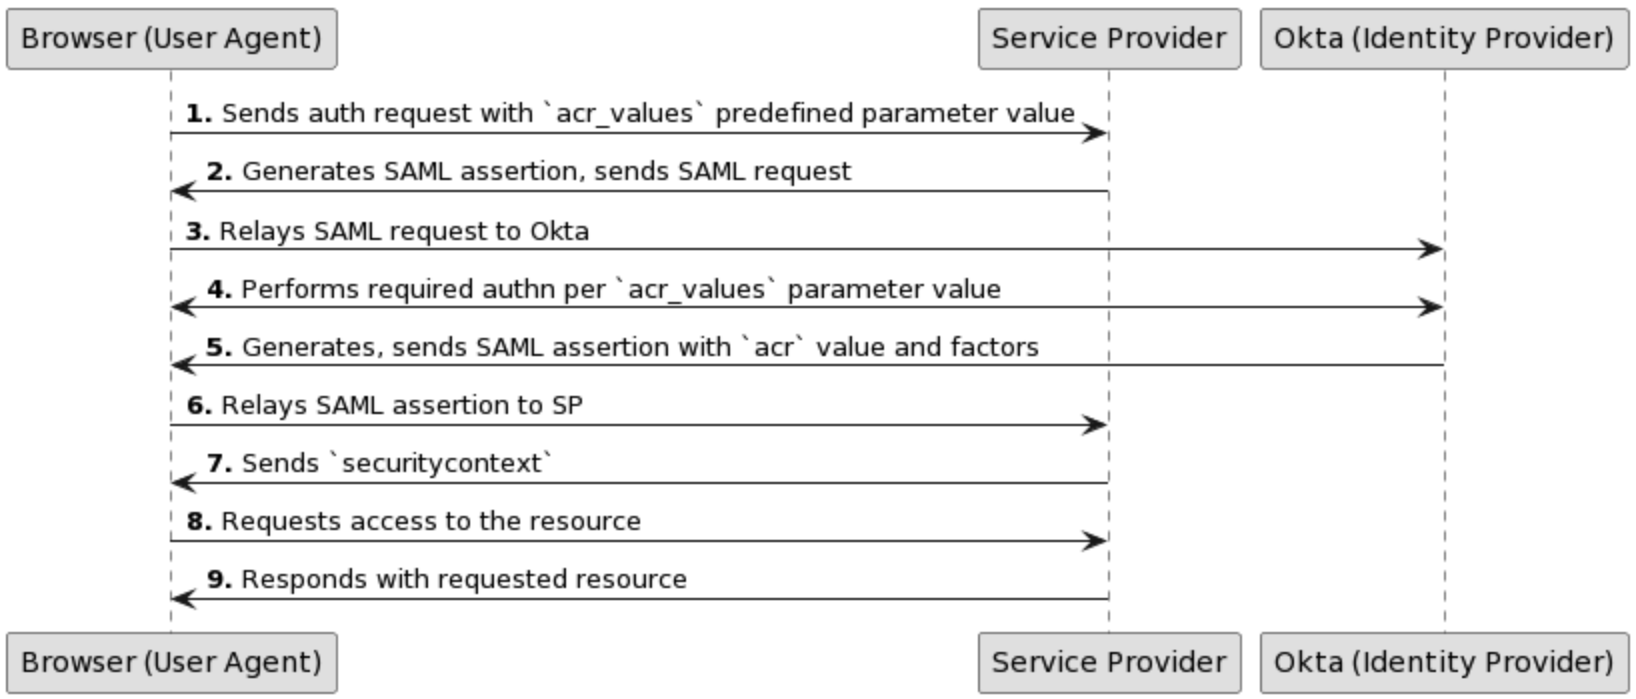
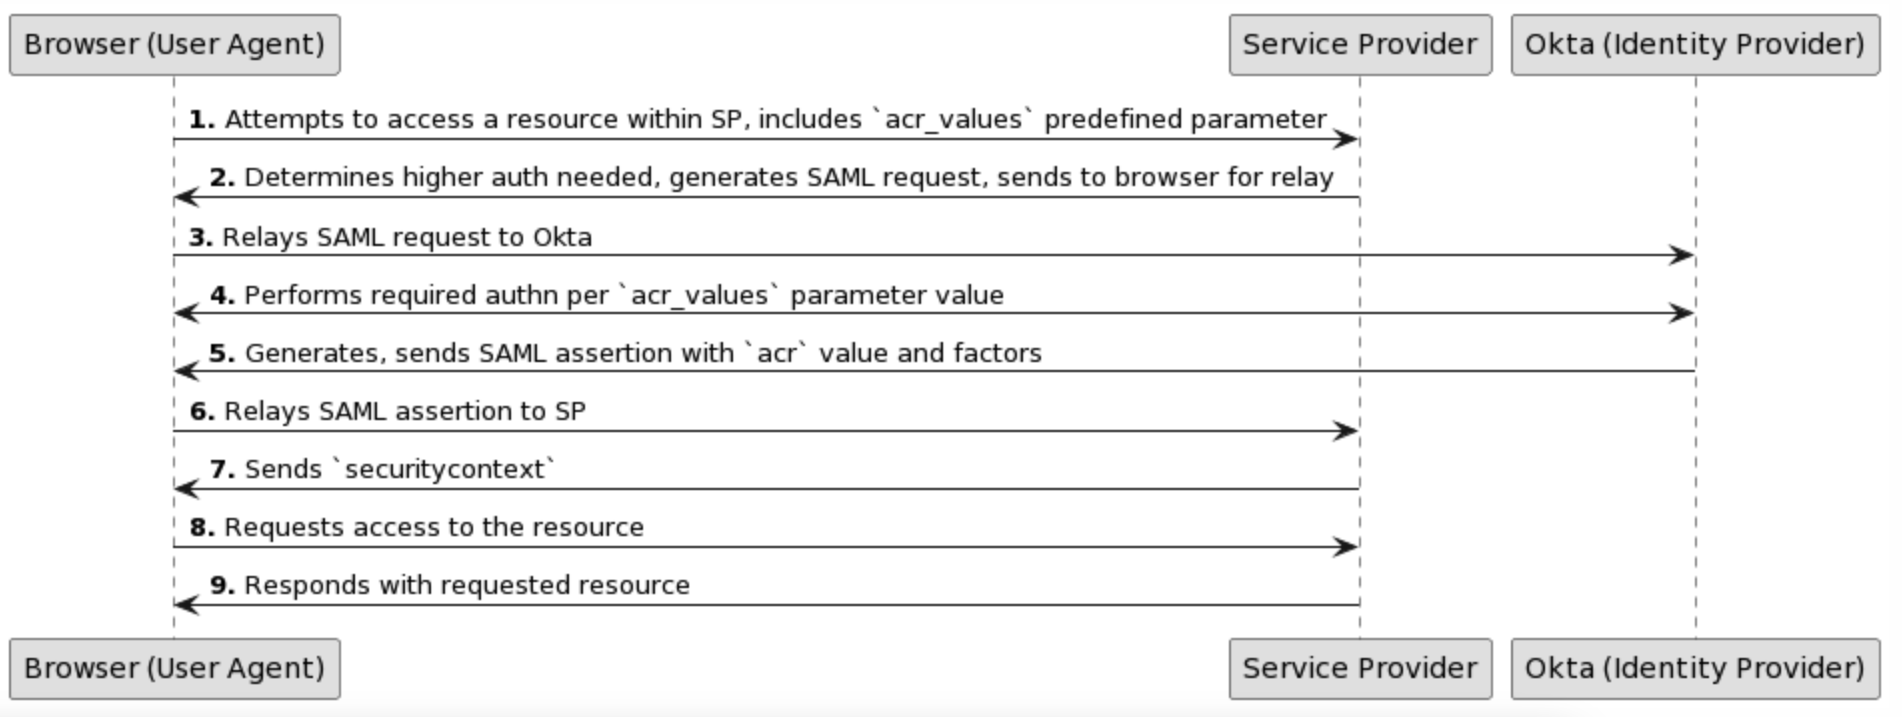
dz diagram comment

diff --git a/packages/@okta/vuepress-site/docs/guides/step-up-authentication/main/saml2/diagram.md b/packages/@okta/vuepress-site/docs/guides/step-up-authentication/main/saml2/diagram.md
@@ -1,13 +1,13 @@
 <div class="three-quarter">
 
-![Flow diagram that displays the back and forth between the Okta the Identity Provider, the user agent, and the Service Provider](/img/auth/step-up-authentication-acr-flowSAML.png)
+![Flow diagram that displays the back and forth between the Okta Identity Provider, the user agent, and the Service Provider](/img/auth/step-up-authentication-acr-flowSAML.png)
 
 </div>
 
 At a high level, this flow has the following steps:
 
-1. Per your use case, include the `acr_values` predefined parameter value in the authentication request.
-2. The SP generates the SAML assertion and sends it in a SAML request to the browser.
+1. Per your use case, include the `acr_values` predefined parameter in the authentication request.
+2. The SP determines that higher authentication is needed, generates the SAML request, and sends it to the browser.
 3. The browser relays the SAML request to Okta.
 4. Okta performs the authentication scenarios required in accordance with the predefined `acr_values` parameter value used in the SAML authentication request.
 5. Okta generates and sends the SAML assertion response to the browser. The assertion contains the `acr` value from the request passed as `AuthnContextClassRef`. The factors (Authentication Method Reference (AMR) claims) used to authenticate the user are passed as a list of `AuthnContextDecl` in the `AuthnContext`.
@@ -25,8 +25,8 @@ participant "Service Provider" as sp
 participant "Okta (Identity Provider)" as okta
 
 autonumber "<b>#."
-browser -> sp: Sends auth request with `acr_values` predefined parameter value
-sp -> browser: Generates SAML assertion, sends SAML request
+browser -> sp: Attempts to access a resource within SP, includes `acr_values` predefined parameter
+sp -> browser: Determines higher auth needed, generates SAML request, sends to browser for relay
 browser -> okta: Relays SAML request to Okta
 okta <-> browser: Performs required authn per `acr_values` parameter value
 okta -> browser: Generates, sends SAML assertion with `acr` value and factors
